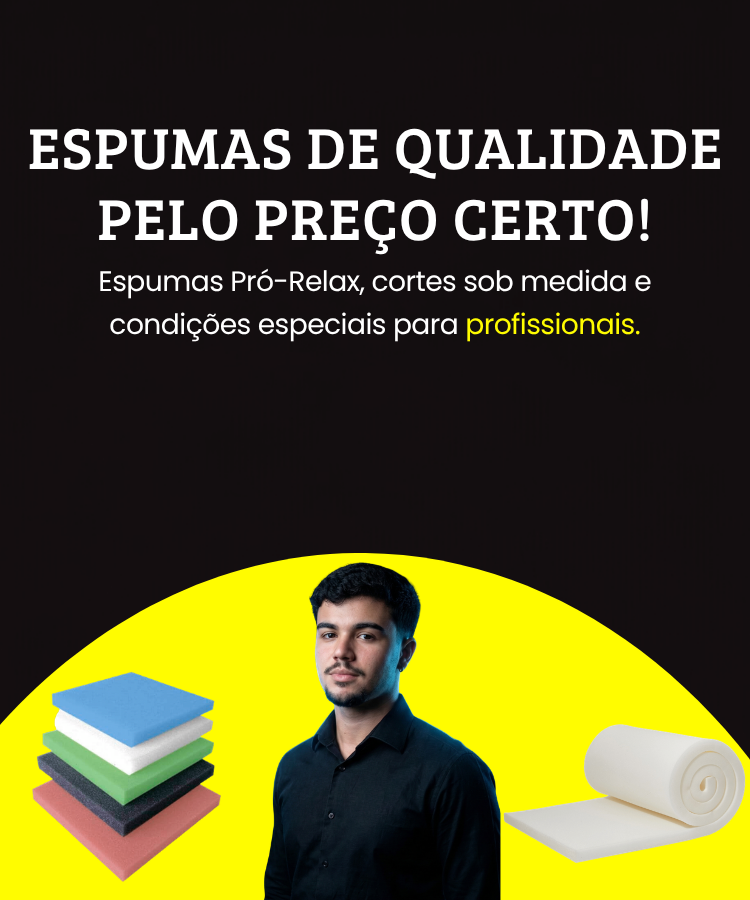
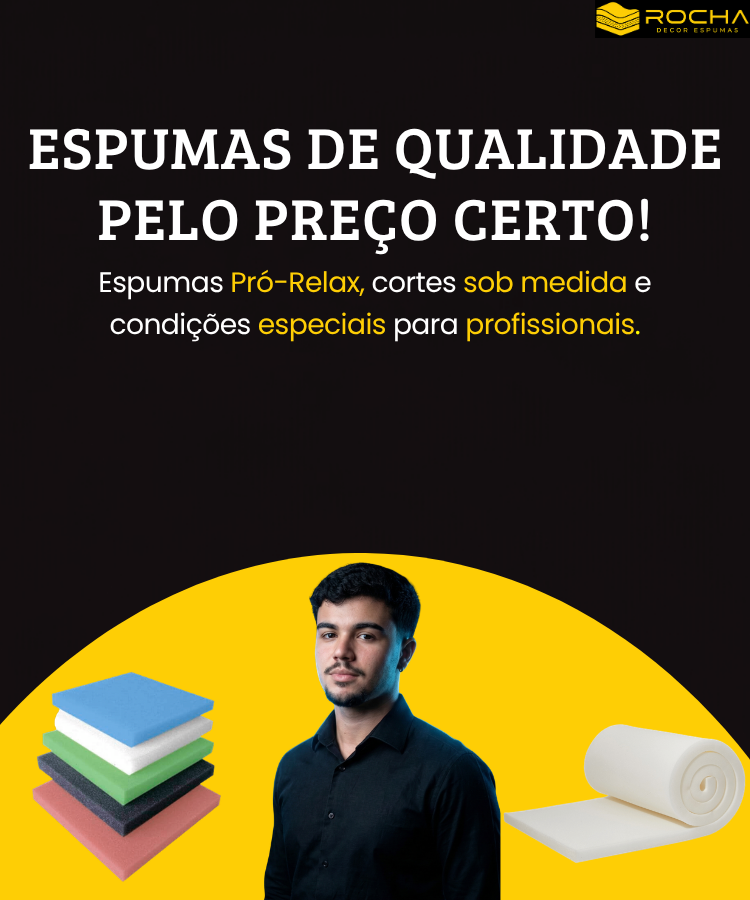
ok

diff --git a/css/styles.css b/css/styles.css
@@ -23,12 +23,12 @@ button { font: inherit; cursor: pointer; }
   --bg: #0b0b0d;
   --bg-elevated: #16161a;
   --bg-elevated-2: #1e1e23;
-  --gold: #fffc00;
-  --gold-light: #fffc00;
-  --gold-dark: #fffc00;
+  --gold: #FECE05;
+  --gold-light: #FECE05;
+  --gold-dark: #FECE05;
   --text: #f4f1ea;
   --text-muted: #a8a29b;
-  --border: rgba(255, 252, 0, 0.25);
+  --border: rgba(254, 206, 5, 0.25);
   --header-main-height: 60px;
   --announcement-height: 28px;
   --header-total-height: 88px;
@@ -111,7 +111,7 @@ button { font: inherit; cursor: pointer; }
 
 .btn--primary:hover {
   transform: translateY(-2px);
-  box-shadow: 0 10px 30px -10px rgba(255, 252, 0, 0.6);
+  box-shadow: 0 10px 30px -10px rgba(254, 206, 5, 0.6);
 }
 
 .btn--secondary {
@@ -250,7 +250,7 @@ button { font: inherit; cursor: pointer; }
 .header__cta:hover,
 .header__mobile-button:hover {
   transform: translateY(-2px);
-  box-shadow: 0 9px 24px -10px rgba(255, 252, 0, 0.85);
+  box-shadow: 0 9px 24px -10px rgba(254, 206, 5, 0.85);
 }
 
 .header__mobile-cta,
@@ -297,7 +297,7 @@ button { font: inherit; cursor: pointer; }
   display: grid;
   place-items: center;
   padding-inline: 0.75rem;
-  background: #fffc00;
+  background: #FECE05;
   border-bottom: 1px solid #000;
 }
 
@@ -437,11 +437,11 @@ button { font: inherit; cursor: pointer; }
   background: var(--gold);
   border-color: var(--gold);
   color: #0b0b0d;
-  box-shadow: 0 8px 24px -10px rgba(255, 252, 0, 0.7);
+  box-shadow: 0 8px 24px -10px rgba(254, 206, 5, 0.7);
 }
 
 .hero__button--catalogo:hover {
-  box-shadow: 0 12px 28px -10px rgba(255, 252, 0, 0.9);
+  box-shadow: 0 12px 28px -10px rgba(254, 206, 5, 0.9);
 }
 
 .hero__button--whatsapp {
@@ -454,7 +454,7 @@ button { font: inherit; cursor: pointer; }
   background: var(--gold);
   border-color: var(--gold);
   color: #0b0b0d;
-  box-shadow: 0 12px 28px -10px rgba(255, 252, 0, 0.9);
+  box-shadow: 0 12px 28px -10px rgba(254, 206, 5, 0.9);
 }
 
 .hero__button-icon {
@@ -644,10 +644,10 @@ button { font: inherit; cursor: pointer; }
   margin-inline: auto;
   overflow-x: auto;
   background: linear-gradient(145deg, #19191e, #121216);
-  border: 1px solid rgba(255, 252, 0, 0.34);
+  border: 1px solid rgba(254, 206, 5, 0.34);
   border-radius: var(--radius);
   box-shadow:
-    0 28px 70px -42px rgba(255, 252, 0, 0.38),
+    0 28px 70px -42px rgba(254, 206, 5, 0.38),
     0 20px 45px -30px rgba(0, 0, 0, 0.9);
   scrollbar-color: var(--gold) var(--bg-elevated-2);
   scrollbar-width: thin;
@@ -673,13 +673,13 @@ button { font: inherit; cursor: pointer; }
 }
 
 .price-table thead {
-  background: linear-gradient(90deg, rgba(255, 252, 0, 0.13), rgba(255, 252, 0, 0.035));
+  background: linear-gradient(90deg, rgba(254, 206, 5, 0.13), rgba(254, 206, 5, 0.035));
   color: var(--gold);
 }
 
 .price-table thead th {
   padding: 1.05rem 1.15rem;
-  border-bottom: 1px solid rgba(255, 252, 0, 0.34);
+  border-bottom: 1px solid rgba(254, 206, 5, 0.34);
   font-size: 0.75rem;
   font-weight: 800;
   letter-spacing: 0.08em;
@@ -690,7 +690,7 @@ button { font: inherit; cursor: pointer; }
 .price-table td,
 .price-table tbody th {
   padding: 1.05rem 1.15rem;
-  border-top: 1px solid rgba(255, 252, 0, 0.14);
+  border-top: 1px solid rgba(254, 206, 5, 0.14);
   text-align: left;
   vertical-align: middle;
 }
@@ -704,12 +704,12 @@ button { font: inherit; cursor: pointer; }
 }
 
 .price-table__row--quote {
-  background: rgba(255, 252, 0, 0.065);
+  background: rgba(254, 206, 5, 0.065);
 }
 
 @media (hover: hover) and (min-width: 768px) {
   .price-table__row:hover {
-    background: rgba(255, 252, 0, 0.065);
+    background: rgba(254, 206, 5, 0.065);
   }
 }
 
@@ -823,9 +823,9 @@ button { font: inherit; cursor: pointer; }
     gap: 0.15rem 1rem;
     padding: 0.9rem;
     background: linear-gradient(145deg, #1a1a1f, #121216);
-    border: 1px solid rgba(255, 252, 0, 0.26);
+    border: 1px solid rgba(254, 206, 5, 0.26);
     border-radius: var(--radius);
-    box-shadow: 0 16px 34px -26px rgba(255, 252, 0, 0.42);
+    box-shadow: 0 16px 34px -26px rgba(254, 206, 5, 0.42);
     overflow: hidden;
   }
 
@@ -840,7 +840,7 @@ button { font: inherit; cursor: pointer; }
 
   .price-table__row:nth-child(even),
   .price-table__row--quote {
-    background: linear-gradient(145deg, rgba(255, 252, 0, 0.08), #121216 62%);
+    background: linear-gradient(145deg, rgba(254, 206, 5, 0.08), #121216 62%);
   }
 
   .price-table td,
@@ -866,7 +866,7 @@ button { font: inherit; cursor: pointer; }
   .price-table__product {
     grid-column: 1 / -1;
     padding-bottom: 0.7rem !important;
-    border-bottom: 1px solid rgba(255, 252, 0, 0.15) !important;
+    border-bottom: 1px solid rgba(254, 206, 5, 0.15) !important;
     font-size: 1rem;
   }
 
